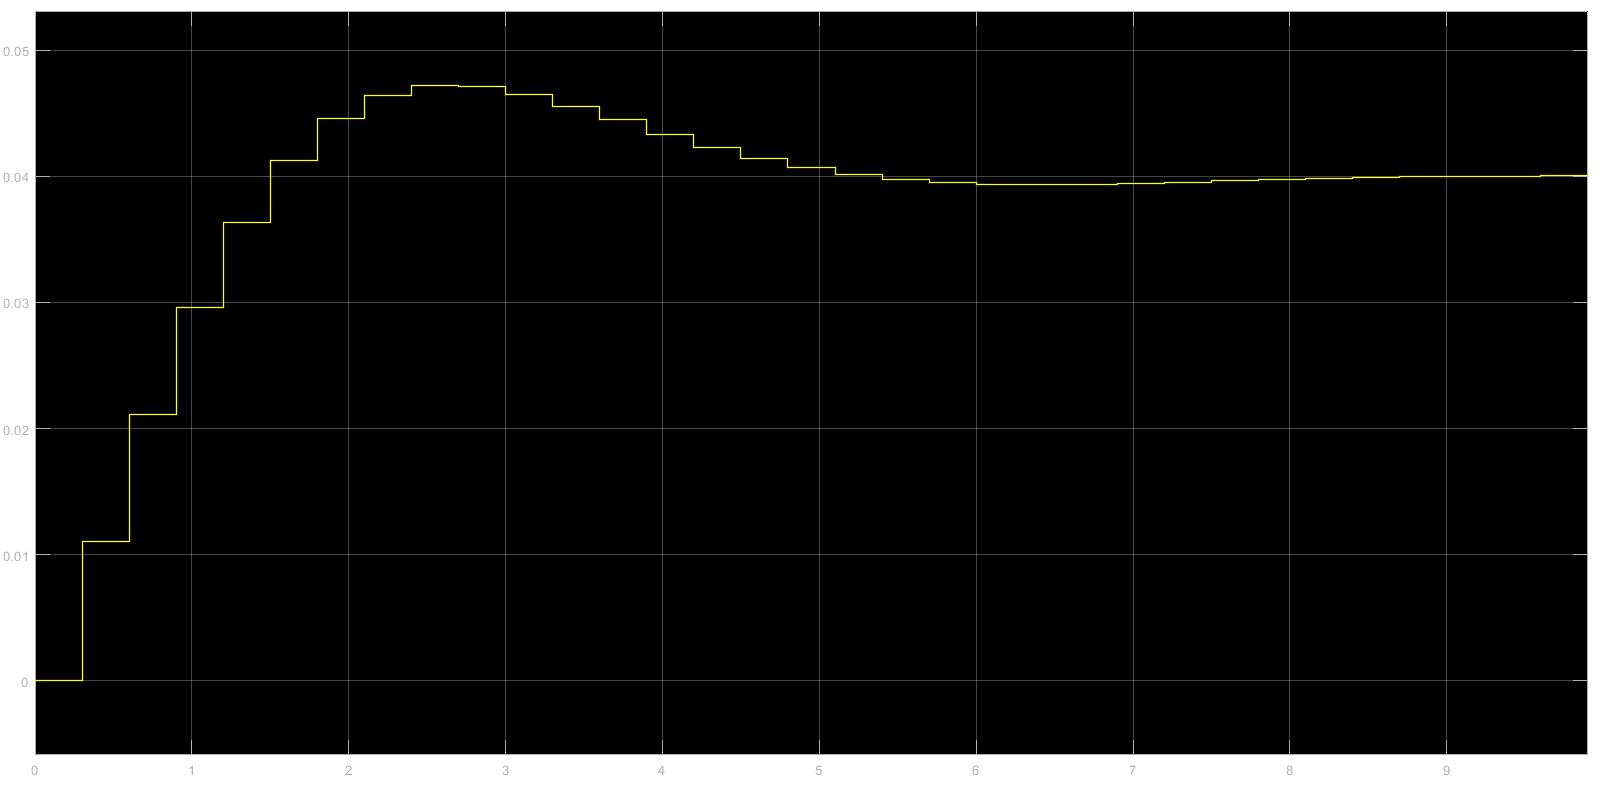
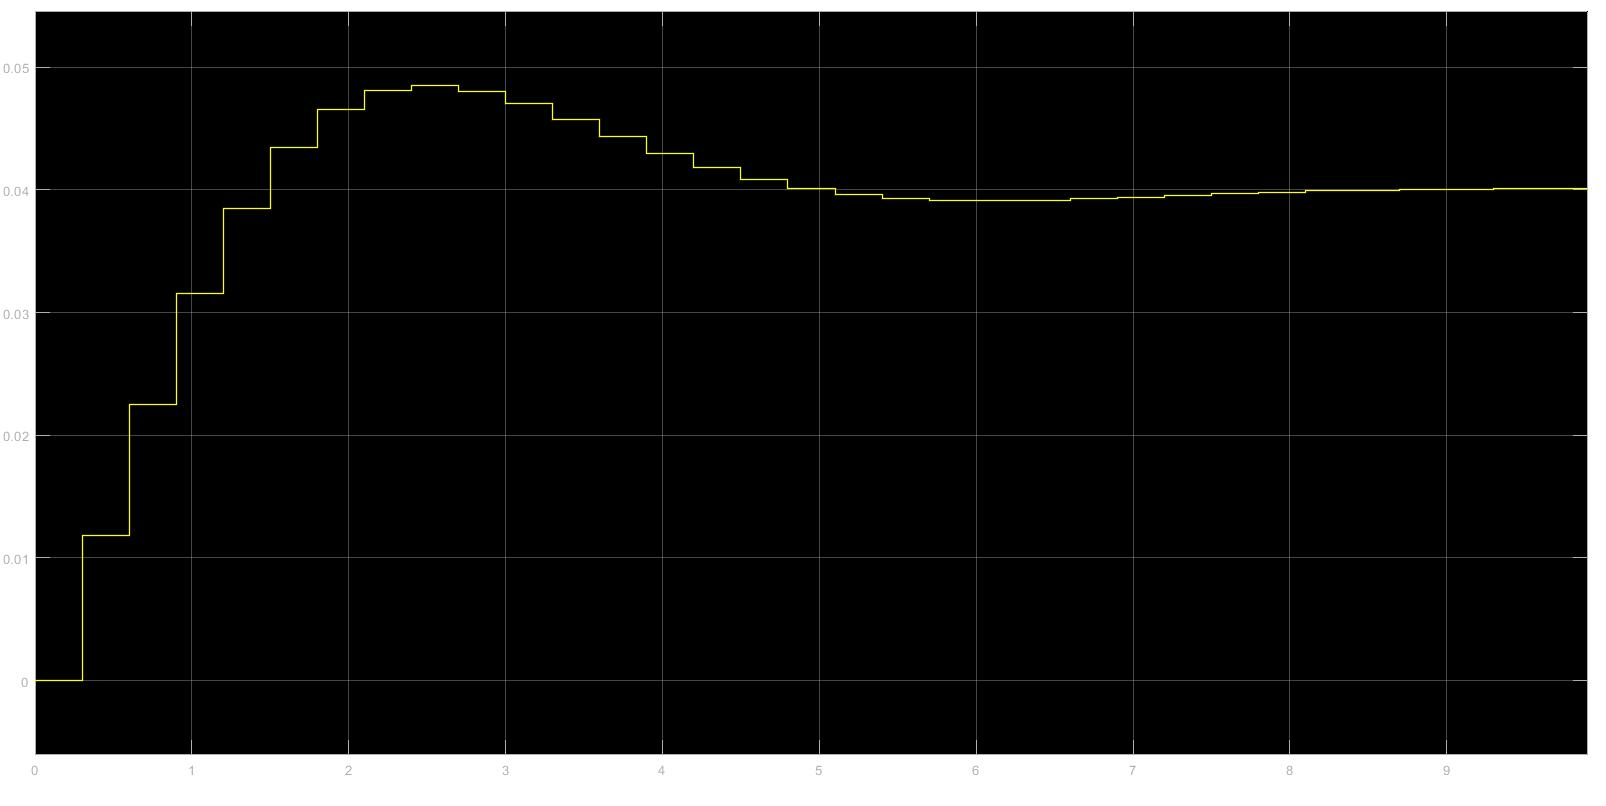
Se corrigio el controlador

diff --git a/Tareas_Laboret/Tarea_N2/Scarlatto_Manuel_Tarea_n°2.md b/Tareas_Laboret/Tarea_N2/Scarlatto_Manuel_Tarea_n°2.md
@@ -34,7 +34,7 @@ Datos indicados para la realización del trabajo:
 
 $$\xi = \frac{-\ln(S/100)}{\sqrt{\pi^2 + \ln(S/100)^2}}=\frac{-\ln(5/100)}{\sqrt{(\pi^2+\ln(5/100)^2)}} = 0.6901$$
 
-$$ω₀ = 4 / (ξ × tᵣ(2\%)) = 4 / (0.6901 × 4) = 1.4491$$
+$$ω₀ = 4 / (ξ * tᵣ(2\%)) = 4 / (0.6901 * 4) = 1.4491$$
 
 $$\omega_d = \omega_o*\sqrt{1-\xi^2} = 1.0487$$
 
@@ -100,10 +100,6 @@ $$r = |z_{1,2}| = e^{-\xi*\omega_o*T_m} = 0.7408$$
 
 $$\Omega = ∠z_{1,2} = \pm \omega_d*T_m = \pm 0.3146 = 18.0258 ° $$
 
-Pasando a coordenadas rectangulares
-
-$$polo_{deseado}= 0.7045 \pm j 0.2289$$
-
 - Código de Matlab
 
 ```
@@ -119,24 +115,16 @@ m=Td/Tm
 %Equivalencias de planos s y z
 r=exp(-Xi*Wo*Tm)
 Omega=(Wd*Tm)*(180/pi)
-%Coordenadas rectangulares
-real_part=r*cos(Omega)
-imag_part=r*sin(Omega)
-R=real_part+j*imag_part
 ```
 - Resultados obtenidos
 ```
-
 r = 0.7408
 
 Omega = 18.0256
-
-real_part = 0.5033
-
-imag_part = -0.5436
-
-R = 0.5033 - 0.5436i
 ```
+Pasando a coordenadas rectangulares
+
+$$polo_{deseado}= 0.7045 \pm j 0.2289$$
 
 ---
 
@@ -204,7 +192,7 @@ Se diseña entonces un controlador PI, dado que el sistema no poseé un polo en 
 Entonces, siguiendo los requerimientos planteados en un comienzo:
 
 $$\xi = 0.6901$$
-$$t_R(2\%) = 4$$
+$$t_R(2 \%) = 4$$
 
 ![alt text](<Imagenes Tarea 2/Lugar_de_Raices_Xi_Tr.jpg>)
 
@@ -227,9 +215,9 @@ Como podemos observar, con el cero ajustable se cancelo el polo en 0.74 y luego 
 Ahora se exporta el compensador C y se contruye el sistema a lazo cerrado.
 
 ```
-    0.042987 (z-0.744)
-C = ------------------
-         (z-1)
+     0.045631 (z-0.7408)
+C = --------------------
+          (z-1)
 ```
 
 - Código de Matlab
@@ -246,9 +234,9 @@ step(F) % respuesta al escalon
 - Función a Lazo Cerrado
 
 ```
-      0.11346 (z-0.744) (z+0.1076)
+      0.12044 (z-0.7408) (z+0.1076)
 F = ----------------------------------
-    (z-0.7474) (z^2 - 1.429z + 0.5561)
+    (z-0.7408) (z^2 - 1.428z + 0.5618)
 ```
 
 - Respuesta al escalon - Sistema a Lazo Cerrado
@@ -262,9 +250,9 @@ pole(F)
 
 ans =
 
-   0.7144 + 0.2140i
-   0.7144 - 0.2140i
-   0.7474 + 0.0000i
+   0.7142 + 0.2274i
+   0.7142 - 0.2274i
+   0.7408 + 0.0000i
 ```
 
 ```
@@ -272,7 +260,7 @@ zero(F)
 
 ans =
 
-    0.7440
+    0.7408
    -0.1076
 ```
 
@@ -284,25 +272,29 @@ $$C(z)=K*\frac{z-c}{z-1}; K=K_p+K_i; c=\frac{K_p}{K_p+K_i}$$
 
 Tenemos que 
 
-$$C(z)=K*\frac{z-c}{z-1}=0.042987*\frac{z-0.744}{z-1}$$
+$$C(z)=K*\frac{z-c}{z-1}=0.045631*\frac{z-0.7408}{z-1}$$
 
 Donde, 
 
-$$K=K_p+K_i=0.042987$$ 
+$$K=K_p+K_i=0.045631$$ 
 
 y 
 
-$$c=\frac{K_p}{K_p+K_i}=0.744$$
+$$c=\frac{K_p}{K_p+K_i}=0.7408$$
 
 Teniendo dos ecuaciones con dos incognitas, resolviendo las mismas, se obtienen los valores de $K_p$ y $K_i$.
 
-$$K_p=0.031982; K_i=0.011004$$
+$$K_p=c*K=0.7408*0.045631=0.0338$$
+
+$$K_i=K-K_p=0.045631-0.0338=0.0118$$
+
+$$K_p=0.0338; K_i=0.0118$$
 
 - Simulación en Simulink
 
 Una vez obtenidos los valores del controlador, pasamos a simular el sistema en Simulink, a partir del archivo 'PID_digital_tarea.slx'.
 
-![alt text](<Imagenes Tarea 2/Simulink_Vacio.jpg>)
+![alt text](<Imagenes Tarea 2/Simulink_Diagrama.jpg>)
 
 Una vez abierto el archivo, ponemos en cero el $K_d$ ya que no es un controlador derivativo, y cargamos los valores previamente calculados a $K_p$ y $K_i$:
 
